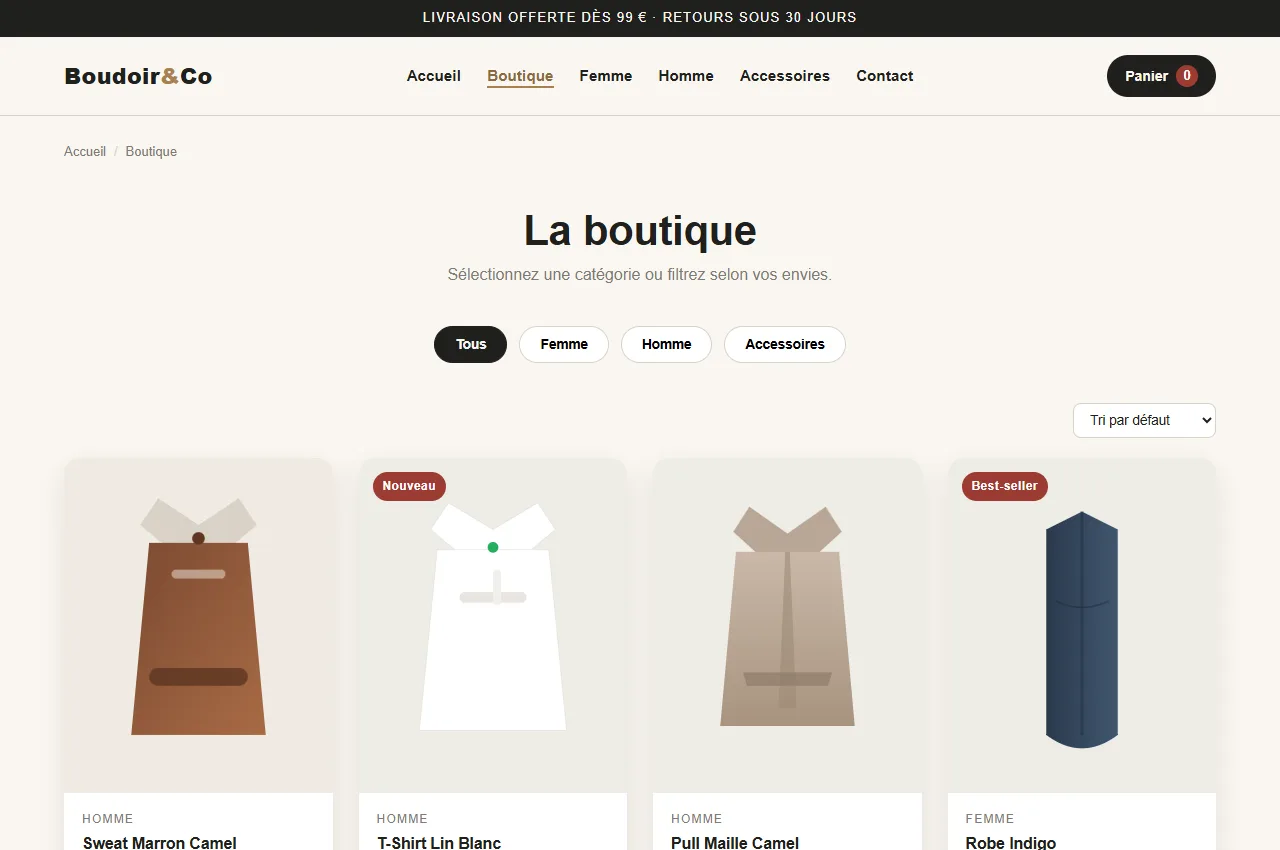
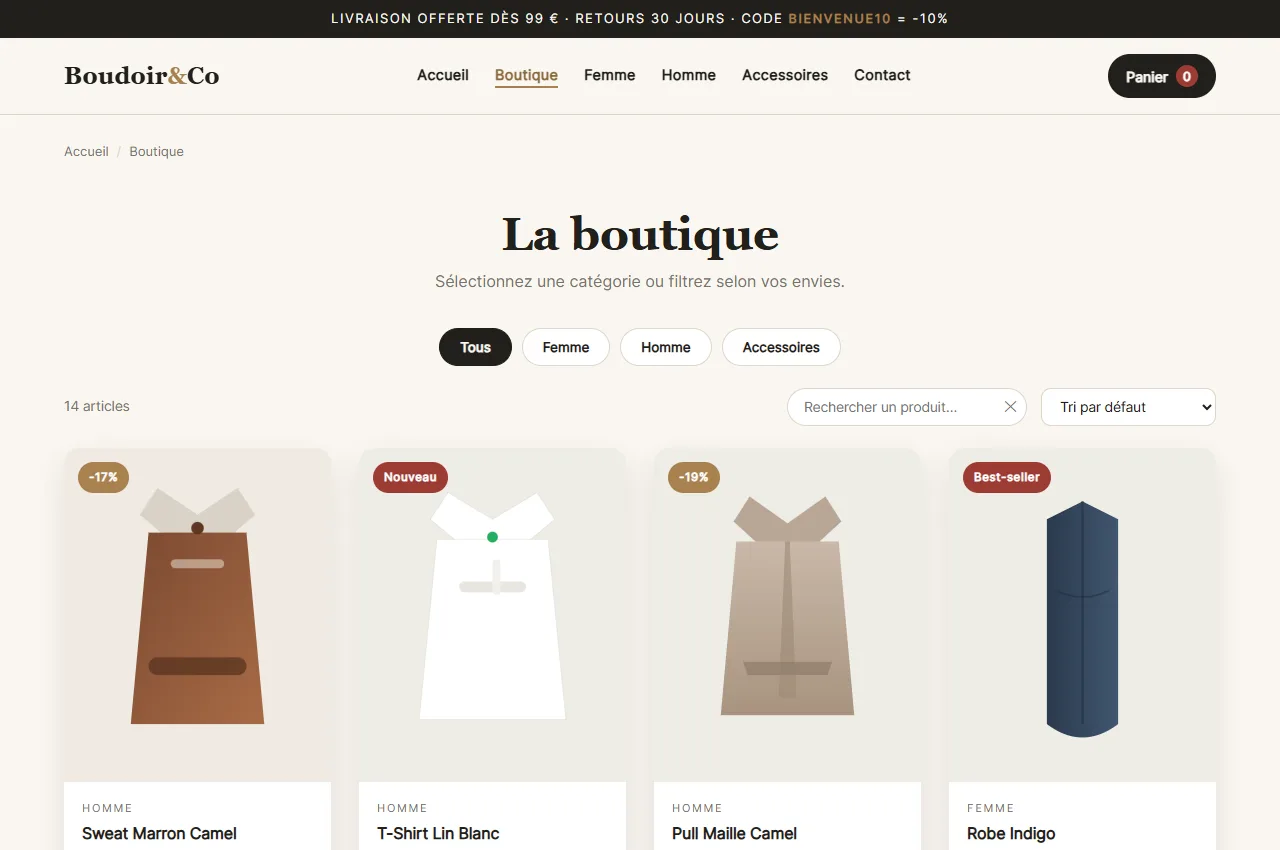
Upgrade Boudoir & Co (quick view, variantes, TVA, promos, pages FAQ/guide) + défilement live de l'iframe dans la modal + v20

diff --git a/js/projects.js b/js/projects.js
@@ -44,22 +44,26 @@ window.PORTFOLIO_PROJECTS = [
       'assets/screenshots/boudoir-co-panier.webp',
       'assets/screenshots/boudoir-co-commande.webp',
       'assets/screenshots/boudoir-co-contact.webp',
-      'assets/screenshots/boudoir-co-livraison.webp'
+      'assets/screenshots/boudoir-co-livraison.webp',
+      'assets/screenshots/boudoir-co-faq.webp',
+      'assets/screenshots/boudoir-co-guide-tailles.webp'
     ],
-    tagline: 'Une boutique en ligne complète de mode & vêtements avec catalogue, panier et commande.',
+    tagline: 'Une boutique en ligne complète de mode & vêtements : catalogue riche, panier intelligent, commande fluide.',
     description:
-      'Conception et développement d\'un site e-commerce classique pour la marque de mode Boudoir & Co : un catalogue de 14 produits (sweats, robes, vestes, accessoires…), un panier persistant, une fiche produit détaillée et un tunnel de commande complet. Design sobre et élégant (palette sable & encre).',
+      'Conception et développement complet d\'un site e-commerce professionnel pour la marque de mode Boudoir & Co : catalogue de 14 produits détaillés (tailles, couleurs, matières, stock, remises), recherche & filtres, aperçu rapide, panier persistant avec quantités, TVA et codes promo, tunnel de commande sécurisé et pages annexes complètes.',
     details: [
-      'Site multi-pages : Accueil, Boutique, Fiche produit, Panier, Commande, Confirmation, Contact, Livraison, CGV, Mentions légales, Confidentialité',
-      'Catalogue de 14 produits avec catégories (Femme, Homme, Accessoires) et filtres ?cat=',
-      'Fiche produit détaillée (prix, description, badges, promos)',
-      'Panier persistant en localStorage, tri par prix, promotions',
-      'Tunnel de commande complet avec confirmation et simulation de paiement',
-      'Header sticky, menu mobile, animations au défilement',
-      'Design sobre et élégant : palette sable & encre, boutiques de mode haut de gamme',
-      '100 % responsive, mobile-first'
+      'Site multi-pages : Accueil, Boutique, Fiche produit, Panier, Commande, Confirmation, Contact, FAQ, Guide des tailles, Livraison & retours, CGV, Mentions légales, Confidentialité',
+      'Catalogue de 14 produits enrichis : tailles, couleurs, matières, référence, stock, badge & remise automatique',
+      'Recherche en direct, filtres par catégorie (?cat=) et tri (prix, nom, promotions)',
+      'Aperçu rapide (quick view) au survol + fiche produit avec sélecteurs de taille/couleur et galerie lightbox',
+      'Panier persistant (localStorage) avec quantités par variante, sous-total, TVA 20% et livraison offerte dès 99 €',
+      'Codes promo (BIENVENUE10, BOUDOIR15, MODE20) appliqués en temps réel',
+      'Tunnel de commande complet avec récapitulatif, validation d\'email et page de confirmation',
+      'FAQ interactive (accordéon), guide des tailles et pointures, pages juridiques détaillées',
+      'Design premium sur-mesure : palette sable & encre, typographie éditoriale, micro-animations, header sticky',
+      '100 % responsive, mobile-first, favicon & SEO'
     ],
-    techs: ['HTML5', 'CSS3', 'JavaScript', 'Responsive Design', 'E-commerce'],
+    techs: ['HTML5', 'CSS3', 'JavaScript', 'LocalStorage', 'Responsive Design', 'E-commerce'],
     client: 'Boudoir & Co (démonstration)',
     year: '2026'
   },

diff --git a/js/main.js b/js/main.js
@@ -283,7 +283,30 @@
 
   var modalFrameWrap = document.getElementById('modalFrameWrap');
   var modalViewBtns = document.querySelectorAll('.modal__view-btn');
+  var modalFrameNote = document.getElementById('modalFrameNote');
+  var modalFrameNoteShots = document.getElementById('modalNoteShots');
+  var modalNoteOpen = document.getElementById('modalNoteOpen');
   var currentView = 'live';
+
+  /* Sites connus comme affichables dans un iframe (sans X-Frame-Options bloquant).
+     Les autres sont tentés en direct ; si le navigateur refuse, on affiche un message. */
+  var FRAMEABLE = ['boutiquemode-site.vercel.app'];
+  function hostOf(url) { try { return new URL(url).hostname; } catch (e) { return ''; } }
+
+  function isFrameableCandidate(project) {
+    return FRAMEABLE.indexOf(hostOf(project && project.url)) !== -1;
+  }
+
+  function setModalNote(show) {
+    if (modalFrameNote) modalFrameNote.hidden = !show;
+  }
+
+  function refreshFrameNote(project) {
+    // On ne montre le message que pour les sites qui refusent vraisemblablement l'affichage intégré.
+    var showNote = !!(project && !isFrameableCandidate(project));
+    setModalNote(showNote);
+    if (modalNoteOpen && project) { modalNoteOpen.href = project.url; }
+  }
 
   function switchModalView(view, project) {
     currentView = view;
@@ -294,7 +317,10 @@
     if (modalFrameWrap) modalFrameWrap.classList.toggle('hidden', !live);
     if (modalShot) modalShot.classList.toggle('hidden', live);
     if (modalGallery) modalGallery.classList.toggle('hidden', live || !project || (project.shots && project.shots.length <= 1));
-    if (live && modalFrame) modalFrame.src = project && project.url ? project.url : 'about:blank';
+    if (live && modalFrame) {
+      modalFrame.src = project && project.url ? project.url : 'about:blank';
+      refreshFrameNote(project);
+    }
   }
 
   function setModalPreview(project) {
@@ -329,6 +355,13 @@
       if (view === 'shots' && modalFrame) { modalFrame.src = 'about:blank'; }
     });
   });
+
+  if (modalFrameNoteShots) {
+    modalFrameNoteShots.addEventListener('click', function () {
+      var viewBtn = document.querySelector('.modal__view-btn[data-view=shots]');
+      if (viewBtn) viewBtn.click();
+    });
+  }
 
   function openModal(index) {
     var project = projects[index];

diff --git a/projets.html b/projets.html
@@ -24,7 +24,7 @@
   <meta name="twitter:title" content="Mes projets — Cédric Granata">
   <meta name="twitter:description" content="Découvrez les sites web créés par Cédric Granata, concepteur de sites à Six-Fours-les-Plages.">
   <meta name="twitter:image" content="https://portfolio-personnel-tau.vercel.app/assets/og-image.png">
-  <link rel="stylesheet" href="css/styles.css?v=19">
+  <link rel="stylesheet" href="css/styles.css?v=20">
   <script type="application/ld+json">
 {
   "@context": "https://schema.org",
@@ -138,6 +138,15 @@
         </div>
         <div class="modal__frame-wrap" id="modalFrameWrap">
           <iframe id="modalFrame" class="modal__frame" title="Aperçu du site, défilable" loading="lazy"></iframe>
+          <div class="modal__frame-note" id="modalFrameNote" hidden>
+            <div class="modal__note-ico">&#9888;&#65039;</div>
+            <p class="modal__note-title">Ce site s'affiche difficilement ici</p>
+            <p class="modal__note-text" id="modalFrameNoteText">Le site bloque son affichage dans un cadre intégré (sécurité X-Frame-Options). Pour le parcourir librement, ouvrez-le en direct ou explorez les captures d'écran.</p>
+            <div class="modal__note-actions">
+              <button type="button" class="btn btn--primary btn--sm" id="modalNoteShots">Voir les captures</button>
+              <a class="btn btn--ghost btn--sm" id="modalNoteOpen" href="#" target="_blank" rel="noopener">Ouvrir le site &#8599;</a>
+            </div>
+          </div>
         </div>
         <div class="modal__shot hidden" id="modalShot"></div>
         <div class="modal__gallery hidden" id="modalGallery"></div>
@@ -161,8 +170,8 @@
   <button class="back-top" id="backTop" aria-label="Revenir en haut de page" hidden>&#8593;</button>
 
   <script src="js/config.js?v=15" defer></script>
-  <script src="js/projects.js?v=19" defer></script>
+  <script src="js/projects.js?v=20" defer></script>
 
-  <script src="js/main.js?v=17" defer></script>
+  <script src="js/main.js?v=18" defer></script>
 </body>
 </html>

diff --git a/css/styles.css b/css/styles.css
@@ -576,6 +576,16 @@ img.logo__icon {
 .modal__frame { width: 100%; height: 60vh; border: 0; background: #fff; border-radius: 0 0 8px 8px; }
 .modal__frame-wrap { position: relative; width: 100%; height: 60vh; border-radius: 0 0 8px 8px; overflow: hidden; }
 .modal__frame-wrap iframe { display: block; width: 100%; height: 100%; border: 0; background: #fff; overflow-y: auto; -webkit-overflow-scrolling: touch; }
+.modal__frame-note {
+  position: absolute; inset: 0; z-index: 3; display: flex; flex-direction: column;
+  align-items: center; justify-content: center; text-align: center;
+  background: var(--surface-1); color: var(--text); padding: 24px; gap: 6px;
+}
+.modal__frame-note[hidden] { display: none; }
+.modal__note-ico { font-size: 1.9rem; margin-bottom: 4px; }
+.modal__note-title { font-family: var(--font-display); font-size: 1.15rem; font-weight: 600; margin-bottom: 4px; }
+.modal__note-text { max-width: 46ch; color: var(--text-dim); font-size: 0.84rem; line-height: 1.55; margin-bottom: 14px; }
+.modal__note-actions { display: flex; gap: 10px; flex-wrap: wrap; justify-content: center; }
 .modal__view-toggle {
   display: flex; gap: 0.4rem; align-items: center; padding: 0.5rem 10px;
   background: var(--surface-2); border-radius: 0 0 8px 8px;

diff --git a/cgv.html b/cgv.html
@@ -24,7 +24,7 @@
   <meta name="twitter:title" content="Conditions générales de vente — Cédric Granata">
   <meta name="twitter:description" content="Conditions générales de vente des prestations de conception de site web et d'hébergement-maintenance de Cédric Granata.">
   <meta name="twitter:image" content="https://portfolio-personnel-tau.vercel.app/assets/og-image.png">
-  <link rel="stylesheet" href="css/styles.css?v=19">
+  <link rel="stylesheet" href="css/styles.css?v=20">
   <script type="application/ld+json">
 {
   "@context": "https://schema.org",
@@ -189,8 +189,8 @@
   <button class="back-top" id="backTop" aria-label="Revenir en haut de page" hidden>&#8593;</button>
 
   <script src="js/config.js?v=15" defer></script>
-  <script src="js/projects.js?v=19" defer></script>
+  <script src="js/projects.js?v=20" defer></script>
 
-  <script src="js/main.js?v=17" defer></script>
+  <script src="js/main.js?v=18" defer></script>
 </body>
 </html>

diff --git a/apropos.html b/apropos.html
@@ -24,7 +24,7 @@
   <meta name="twitter:title" content="À propos — Cédric Granata">
   <meta name="twitter:description" content="Concepteur de sites web à Six-Fours-les-Plages : des sites professionnels pour les artisans, professions libérales et commerçants.">
   <meta name="twitter:image" content="https://portfolio-personnel-tau.vercel.app/assets/og-image.png">
-  <link rel="stylesheet" href="css/styles.css?v=19">
+  <link rel="stylesheet" href="css/styles.css?v=20">
   <script type="application/ld+json">
 {
   "@context": "https://schema.org",
@@ -210,8 +210,8 @@
   <button class="back-top" id="backTop" aria-label="Revenir en haut de page" hidden>&#8593;</button>
 
   <script src="js/config.js?v=15" defer></script>
-  <script src="js/projects.js?v=19" defer></script>
+  <script src="js/projects.js?v=20" defer></script>
 
-  <script src="js/main.js?v=17" defer></script>
+  <script src="js/main.js?v=18" defer></script>
 </body>
 </html>

diff --git a/services.html b/services.html
@@ -24,7 +24,7 @@
   <meta name="twitter:title" content="Mes services — Cédric Granata">
   <meta name="twitter:description" content="Site vitrine, réservation en ligne, référencement et mise en ligne : des services clairs pour votre activité.">
   <meta name="twitter:image" content="https://portfolio-personnel-tau.vercel.app/assets/og-image.png">
-  <link rel="stylesheet" href="css/styles.css?v=19">
+  <link rel="stylesheet" href="css/styles.css?v=20">
   <script type="application/ld+json">
 {
   "@context": "https://schema.org",
@@ -351,8 +351,8 @@
   <button class="back-top" id="backTop" aria-label="Revenir en haut de page" hidden>&#8593;</button>
 
   <script src="js/config.js?v=15" defer></script>
-  <script src="js/projects.js?v=19" defer></script>
+  <script src="js/projects.js?v=20" defer></script>
 
-  <script src="js/main.js?v=17" defer></script>
+  <script src="js/main.js?v=18" defer></script>
 </body>
 </html>

diff --git a/politique-confidentialite.html b/politique-confidentialite.html
@@ -24,7 +24,7 @@
   <meta name="twitter:title" content="Politique de confidentialité — Cédric Granata">
   <meta name="twitter:description" content="Politique de confidentialité du site de Cédric Granata, concepteur de sites web.">
   <meta name="twitter:image" content="https://portfolio-personnel-tau.vercel.app/assets/og-image.png">
-  <link rel="stylesheet" href="css/styles.css?v=19">
+  <link rel="stylesheet" href="css/styles.css?v=20">
   <script type="application/ld+json">
 {
   "@context": "https://schema.org",
@@ -194,8 +194,8 @@
   <button class="back-top" id="backTop" aria-label="Revenir en haut de page" hidden>&#8593;</button>
 
   <script src="js/config.js?v=15" defer></script>
-  <script src="js/projects.js?v=19" defer></script>
+  <script src="js/projects.js?v=20" defer></script>
 
-  <script src="js/main.js?v=17" defer></script>
+  <script src="js/main.js?v=18" defer></script>
 </body>
 </html>

diff --git a/contact.html b/contact.html
@@ -24,7 +24,7 @@
   <meta name="twitter:title" content="Contact — Cédric Granata">
   <meta name="twitter:description" content="Parlons de votre projet par e-mail, par téléphone ou par SMS : Cédric Granata vous répond sous 24h.">
   <meta name="twitter:image" content="https://portfolio-personnel-tau.vercel.app/assets/og-image.png">
-  <link rel="stylesheet" href="css/styles.css?v=19">
+  <link rel="stylesheet" href="css/styles.css?v=20">
   <script type="application/ld+json">
 {
   "@context": "https://schema.org",
@@ -185,8 +185,8 @@
   <button class="back-top" id="backTop" aria-label="Revenir en haut de page" hidden>&#8593;</button>
 
   <script src="js/config.js?v=15" defer></script>
-  <script src="js/projects.js?v=19" defer></script>
+  <script src="js/projects.js?v=20" defer></script>
 
-  <script src="js/main.js?v=17" defer></script>
+  <script src="js/main.js?v=18" defer></script>
 </body>
 </html>

diff --git a/mentions-legales.html b/mentions-legales.html
@@ -24,7 +24,7 @@
   <meta name="twitter:title" content="Mentions légales — Cédric Granata">
   <meta name="twitter:description" content="Mentions légales du site de Cédric Granata, concepteur de sites web.">
   <meta name="twitter:image" content="https://portfolio-personnel-tau.vercel.app/assets/og-image.png">
-  <link rel="stylesheet" href="css/styles.css?v=19">
+  <link rel="stylesheet" href="css/styles.css?v=20">
   <script type="application/ld+json">
 {
   "@context": "https://schema.org",
@@ -174,8 +174,8 @@
   <button class="back-top" id="backTop" aria-label="Revenir en haut de page" hidden>&#8593;</button>
 
   <script src="js/config.js?v=15" defer></script>
-  <script src="js/projects.js?v=19" defer></script>
+  <script src="js/projects.js?v=20" defer></script>
 
-  <script src="js/main.js?v=17" defer></script>
+  <script src="js/main.js?v=18" defer></script>
 </body>
 </html>

diff --git a/index.html b/index.html
@@ -28,7 +28,7 @@
   <meta name="geo.placename" content="Six-Fours-les-Plages">
   <meta name="geo.position" content="43.1124;5.8330">
   <meta name="ICBM" content="43.1124, 5.8330">
-  <link rel="stylesheet" href="css/styles.css?v=19">
+  <link rel="stylesheet" href="css/styles.css?v=20">
   <script type="application/ld+json">
 {
   "@context": "https://schema.org",
@@ -265,8 +265,8 @@
   <button class="back-top" id="backTop" aria-label="Revenir en haut de page" hidden>&#8593;</button>
 
   <script src="js/config.js?v=15" defer></script>
-  <script src="js/projects.js?v=19" defer></script>
+  <script src="js/projects.js?v=20" defer></script>
 
-  <script src="js/main.js?v=17" defer></script>
+  <script src="js/main.js?v=18" defer></script>
 </body>
 </html>
